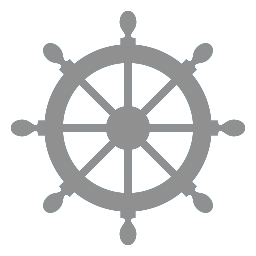
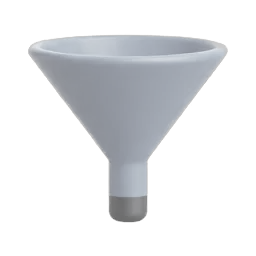
fit to screen in custom sizes

diff --git a/swift/Prowser/UI/FileOps/ResizeImagesSheet.swift b/swift/Prowser/UI/FileOps/ResizeImagesSheet.swift
@@ -148,6 +148,12 @@ struct ResizeImagesSheet: View {
                         action: applyScreenDims
                     )
                     ImageGenDimHelperIconButton(
+                        normalName: "fit",
+                        hoverName: "fit_hover",
+                        tooltip: ImageGenDimHelperTooltips.screenFit,
+                        action: applyScreenFitDims
+                    )
+                    ImageGenDimHelperIconButton(
                         normalName: "import_icon",
                         hoverName: "import_icon_hover",
                         tooltip: resizeImportSizeTooltip,
@@ -344,24 +350,26 @@ struct ResizeImagesSheet: View {
 
     private func applyScreenDims() {
         selectDimensionsMode()
-        let screen = NSScreen.main?.frame.size ?? NSSize(width: 1024, height: 1024)
-        let sw = Int(screen.width.rounded())
-        let sh = Int(screen.height.rounded())
-        if preserveAspect {
-            let (w, h) = ResizeImagesService.bestFitWithinBounds(
-                origW: refWidth,
-                origH: refHeight,
-                boundW: sw,
-                boundH: sh,
-                maxDim: dimSpinMax
-            )
-            let scaleW = refWidth > 0 ? Double(sw) / Double(refWidth) : 1.0
-            let scaleH = refHeight > 0 ? Double(sh) / Double(refHeight) : 1.0
-            anchorIsWidth = scaleW <= scaleH
-            setDimSpins(targetWidth: w, targetHeight: h)
-        } else {
-            setDimSpins(targetWidth: sw, targetHeight: sh)
-        }
+        let (sw, sh) = ImageGenDimHelperScreen.pixelSize()
+        setDimSpins(targetWidth: sw, targetHeight: sh)
+    }
+
+    private func applyScreenFitDims() {
+        selectDimensionsMode()
+        let (sw, sh) = ImageGenDimHelperScreen.pixelSize()
+        let origW = max(1, width)
+        let origH = max(1, height)
+        let (w, h) = ResizeImagesService.bestFitWithinBounds(
+            origW: origW,
+            origH: origH,
+            boundW: sw,
+            boundH: sh,
+            maxDim: dimSpinMax
+        )
+        let scaleW = origW > 0 ? Double(sw) / Double(origW) : 1.0
+        let scaleH = origH > 0 ? Double(sh) / Double(origH) : 1.0
+        anchorIsWidth = scaleW <= scaleH
+        setDimSpins(targetWidth: w, targetHeight: h)
     }
 
     private func applySquareDims() {

diff --git a/swift/Prowser/UI/ImageGen/ImageGenCustomSizeSection.swift b/swift/Prowser/UI/ImageGen/ImageGenCustomSizeSection.swift
@@ -274,6 +274,12 @@ struct ImageGenCustomSizeSection: View {
                     action: applyScreenDims
                 )
                 ImageGenDimHelperIconButton(
+                    normalName: "fit",
+                    hoverName: "fit_hover",
+                    tooltip: ImageGenDimHelperTooltips.screenFit,
+                    action: applyScreenFitDims
+                )
+                ImageGenDimHelperIconButton(
                     normalName: "import_icon",
                     hoverName: "import_icon_hover",
                     tooltip: importSizeTooltip,
@@ -426,13 +432,42 @@ struct ImageGenCustomSizeSection: View {
     }
 
     private func applyScreenDims() {
-        let screen = NSScreen.main?.frame.size ?? NSSize(width: 1024, height: 1024)
-        let sw = Int(screen.width.rounded())
-        let sh = Int(screen.height.rounded())
+        let (sw, sh) = ImageGenDimHelperScreen.pixelSize()
         let aligned = ImageGenDimMath.alignDimsForPipeline(
             pipelineID: pipelineID,
             width: sw,
             height: sh,
+            effectiveMaxSide: effectiveMaxSide,
+            dimStep: dimStep,
+            widthMin: widthMin,
+            heightMin: heightMin
+        )
+        aspectLockUpdating = true
+        values["width"] = aligned.width
+        values["height"] = aligned.height
+        if aspectLock {
+            captureAspectRatio()
+        }
+        aspectLockUpdating = false
+        syncAspectLockPrevDims()
+        onValuesChanged?()
+    }
+
+    private func applyScreenFitDims() {
+        let (sw, sh) = ImageGenDimHelperScreen.pixelSize()
+        let origW = values["width"] as? Int ?? 1024
+        let origH = values["height"] as? Int ?? 1024
+        let (fitW, fitH) = ResizeImagesService.bestFitWithinBounds(
+            origW: origW,
+            origH: origH,
+            boundW: sw,
+            boundH: sh,
+            maxDim: effectiveMaxSide
+        )
+        let aligned = ImageGenDimMath.alignDimsForPipeline(
+            pipelineID: pipelineID,
+            width: fitW,
+            height: fitH,
             effectiveMaxSide: effectiveMaxSide,
             dimStep: dimStep,
             widthMin: widthMin,

diff --git a/swift/Prowser/UI/Sidebars/InformationPaneContentView.swift b/swift/Prowser/UI/Sidebars/InformationPaneContentView.swift
@@ -37,6 +37,7 @@ struct InformationPaneContentView: View {
                 .padding(.vertical, contentPaddingV)
                 .frame(maxWidth: .infinity, alignment: .leading)
             }
+            .frame(maxWidth: .infinity, maxHeight: .infinity, alignment: .topLeading)
             .background(colors.sidebarBackground)
 
             if let heading = activeJobHeading, !heading.isEmpty {
@@ -44,6 +45,7 @@ struct InformationPaneContentView: View {
                     .zIndex(1)
             }
         }
+        .frame(maxWidth: .infinity, maxHeight: .infinity, alignment: .topLeading)
     }
 
     /// Painted above the scroll surface; does not participate in scroll content layout.
@@ -51,10 +53,11 @@ struct InformationPaneContentView: View {
         Text(heading)
             .font(.system(size: sectionHeaderFontSize, weight: .semibold))
             .foregroundStyle(colors.sidebarEmphasizedText)
-            .frame(maxWidth: .infinity, alignment: .leading)
             .padding(.leading, contentPaddingH)
             .padding(.trailing, contentPaddingH + scrollCoordinator.verticalScrollbarReserve)
+            .frame(maxWidth: .infinity, alignment: .leading)
             .background(colors.sidebarBackground)
+            .fixedSize(horizontal: false, vertical: true)
             .allowsHitTesting(false)
     }
 

diff --git a/swift/Prowser/UI/FileOps/DimensionHelperButtons.swift b/swift/Prowser/UI/FileOps/DimensionHelperButtons.swift
@@ -27,6 +27,13 @@ struct ImageGenDimHelperIconButton: View {
     }
 }
 
+enum ImageGenDimHelperScreen {
+    static func pixelSize() -> (width: Int, height: Int) {
+        let screen = NSScreen.main?.frame.size ?? NSSize(width: 1024, height: 1024)
+        return (Int(screen.width.rounded()), Int(screen.height.rounded()))
+    }
+}
+
 enum ImageGenDimHelperTooltips {
     static let importSize =
         "Import size from the\n"
@@ -35,6 +42,11 @@ enum ImageGenDimHelperTooltips {
         "Set size to fit your screen.\n"
         + "Limited by aspect ratio lock and\n"
         + "max size from Settings Dialog."
+    static let screenFit =
+        "Fit to screen:\n"
+        + "Scale to the largest size that fits\n"
+        + "on screen while keeping the current aspect ratio.\n"
+        + "Limited by max size from Settings."
     static let square = "Square:\nMake width and height equal."
     static let reverse = "Reverse:\nSwap width and height."
     static let aspect =

diff --git a/swift/Prowser/UI/Sidebars/SidebarPaneSplitModel.swift b/swift/Prowser/UI/Sidebars/SidebarPaneSplitModel.swift
@@ -178,7 +178,8 @@ final class SidebarPaneSplitModel {
             totalHeight: max(totalHeight, 1),
             headerHeights: headerHeights
         )
-        if side == .right, appState.jobsPaneSavedHeightPinActive(),
+        let jobsPaneInLayout = vis.indices.contains(2) && vis[2] && exp.indices.contains(2) && exp[2]
+        if side == .right, jobsPaneInLayout, appState.jobsPaneSavedHeightPinActive(),
            let pinned = appState.jobsPaneAllMultijobSavedHeight() {
             let jobsFloor = headerHeights[2]
             let jobsPinned = max(pinned, jobsFloor)
